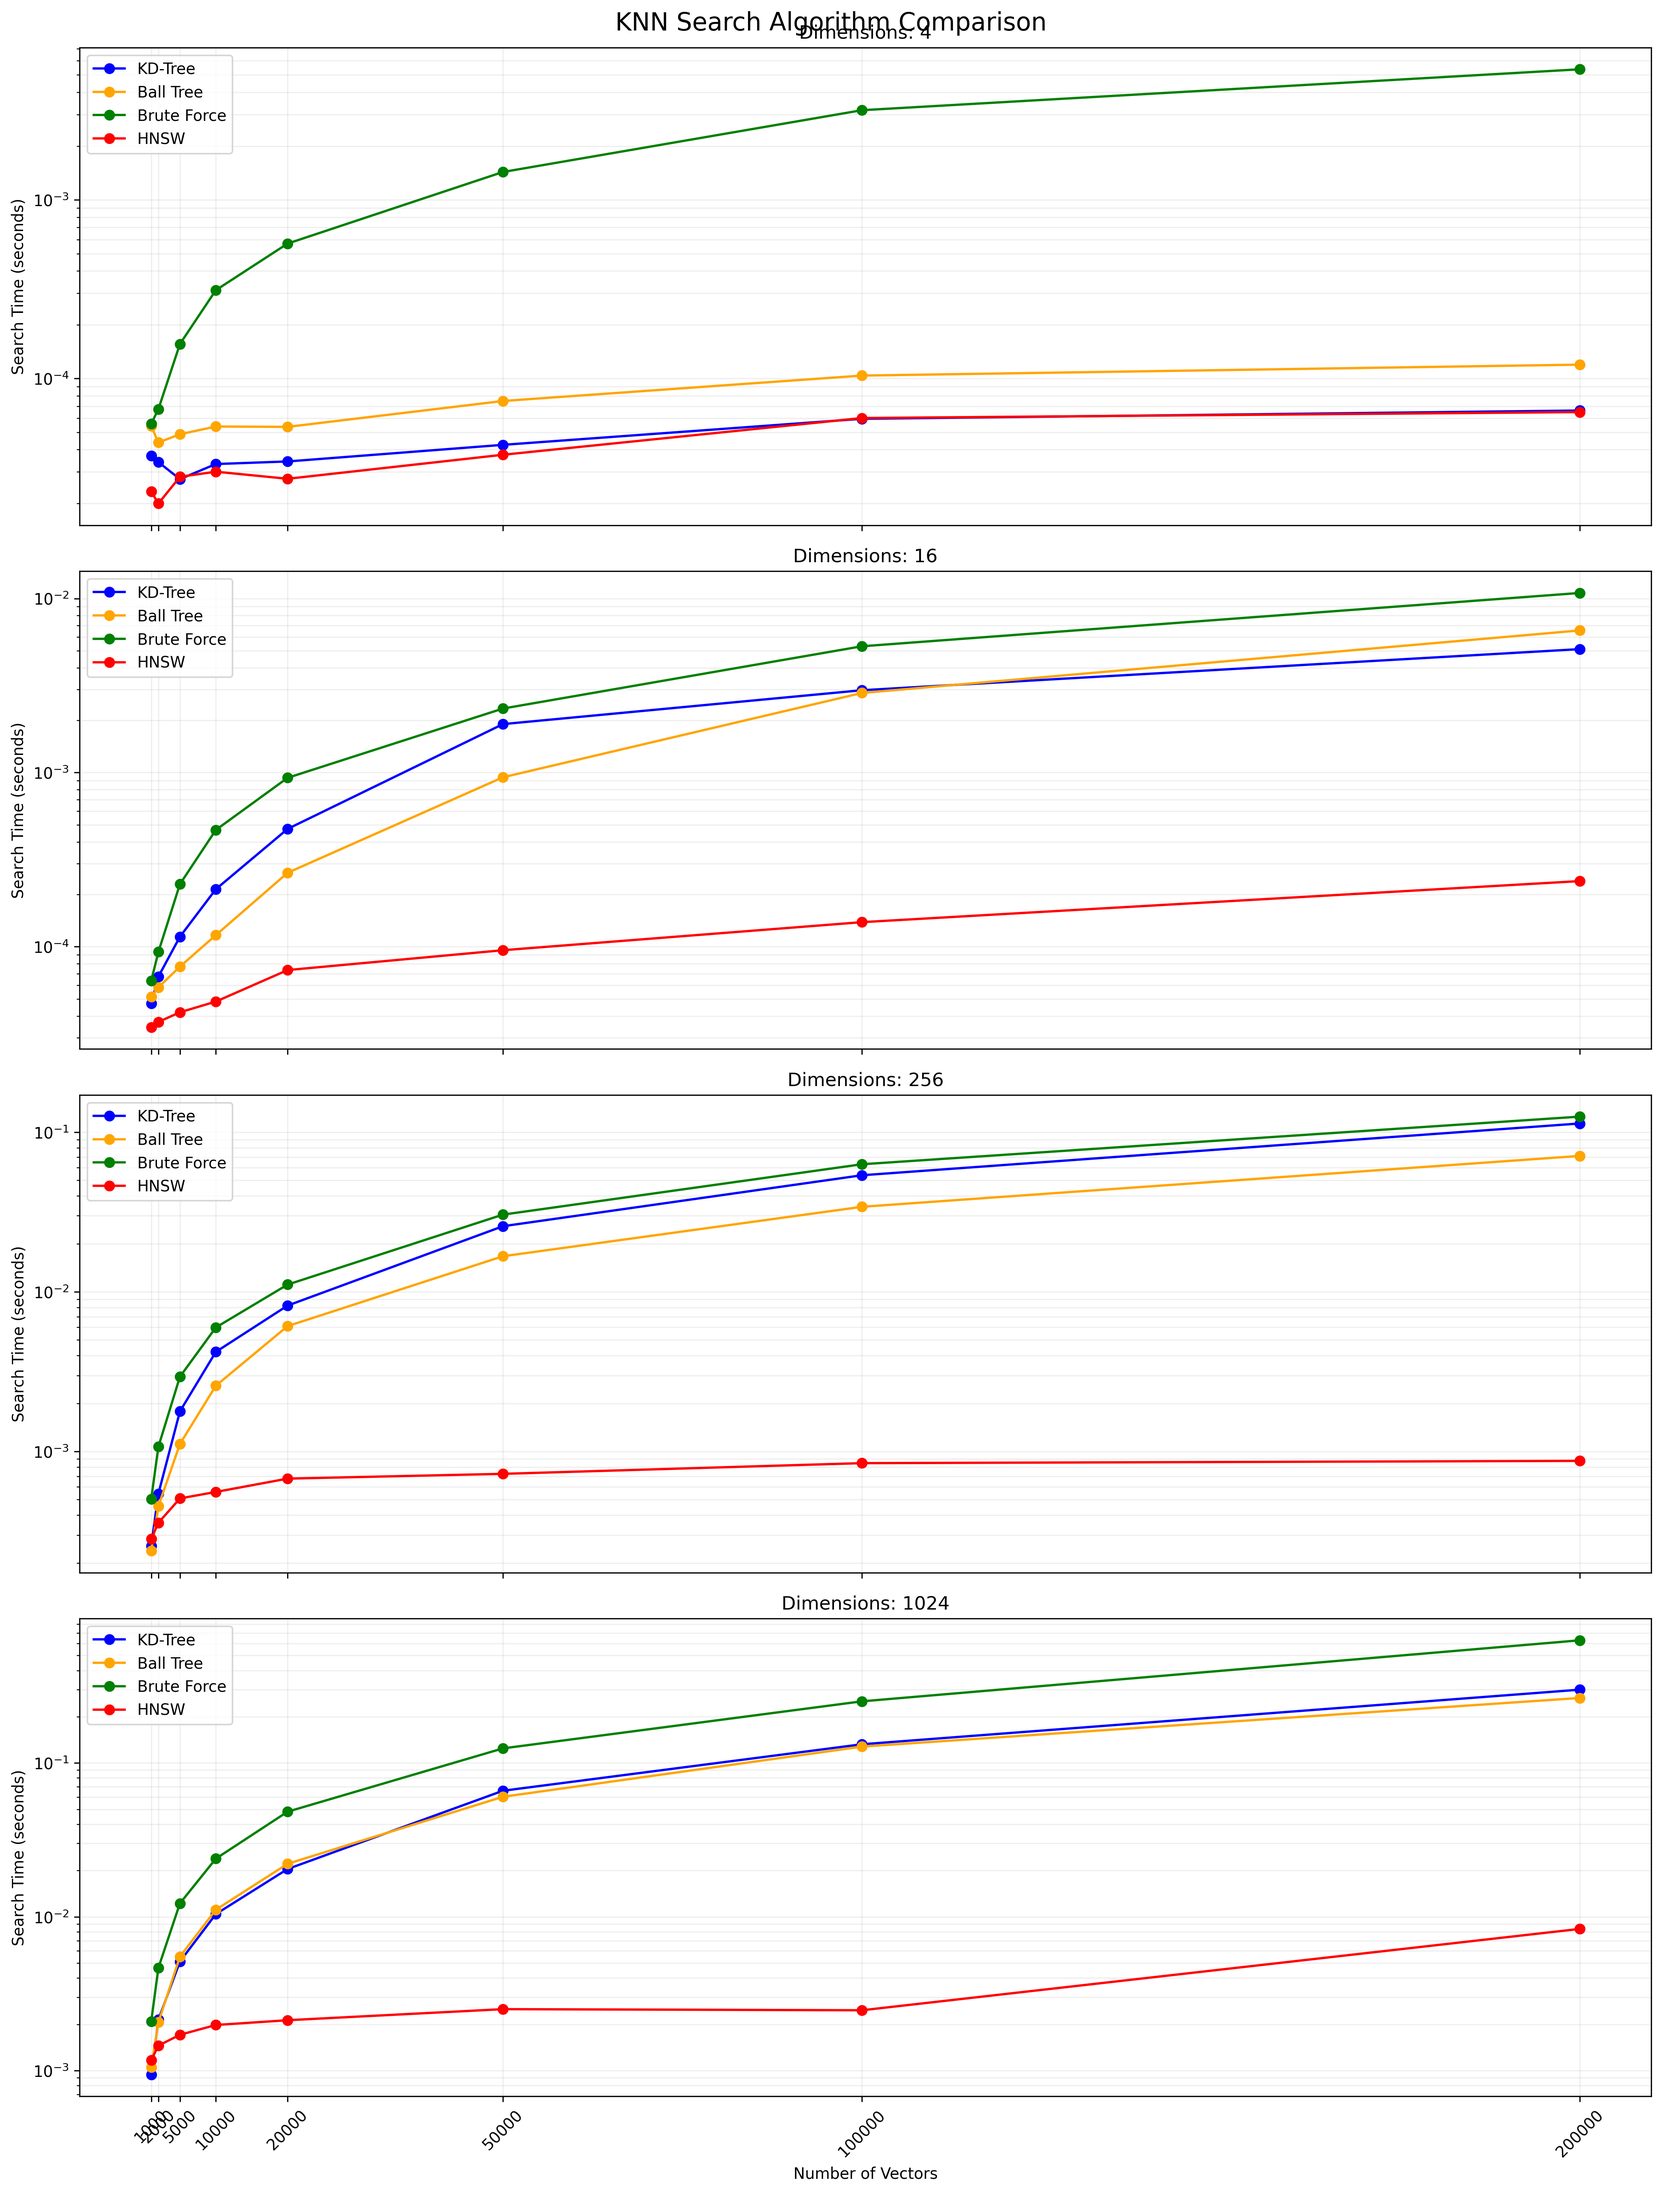
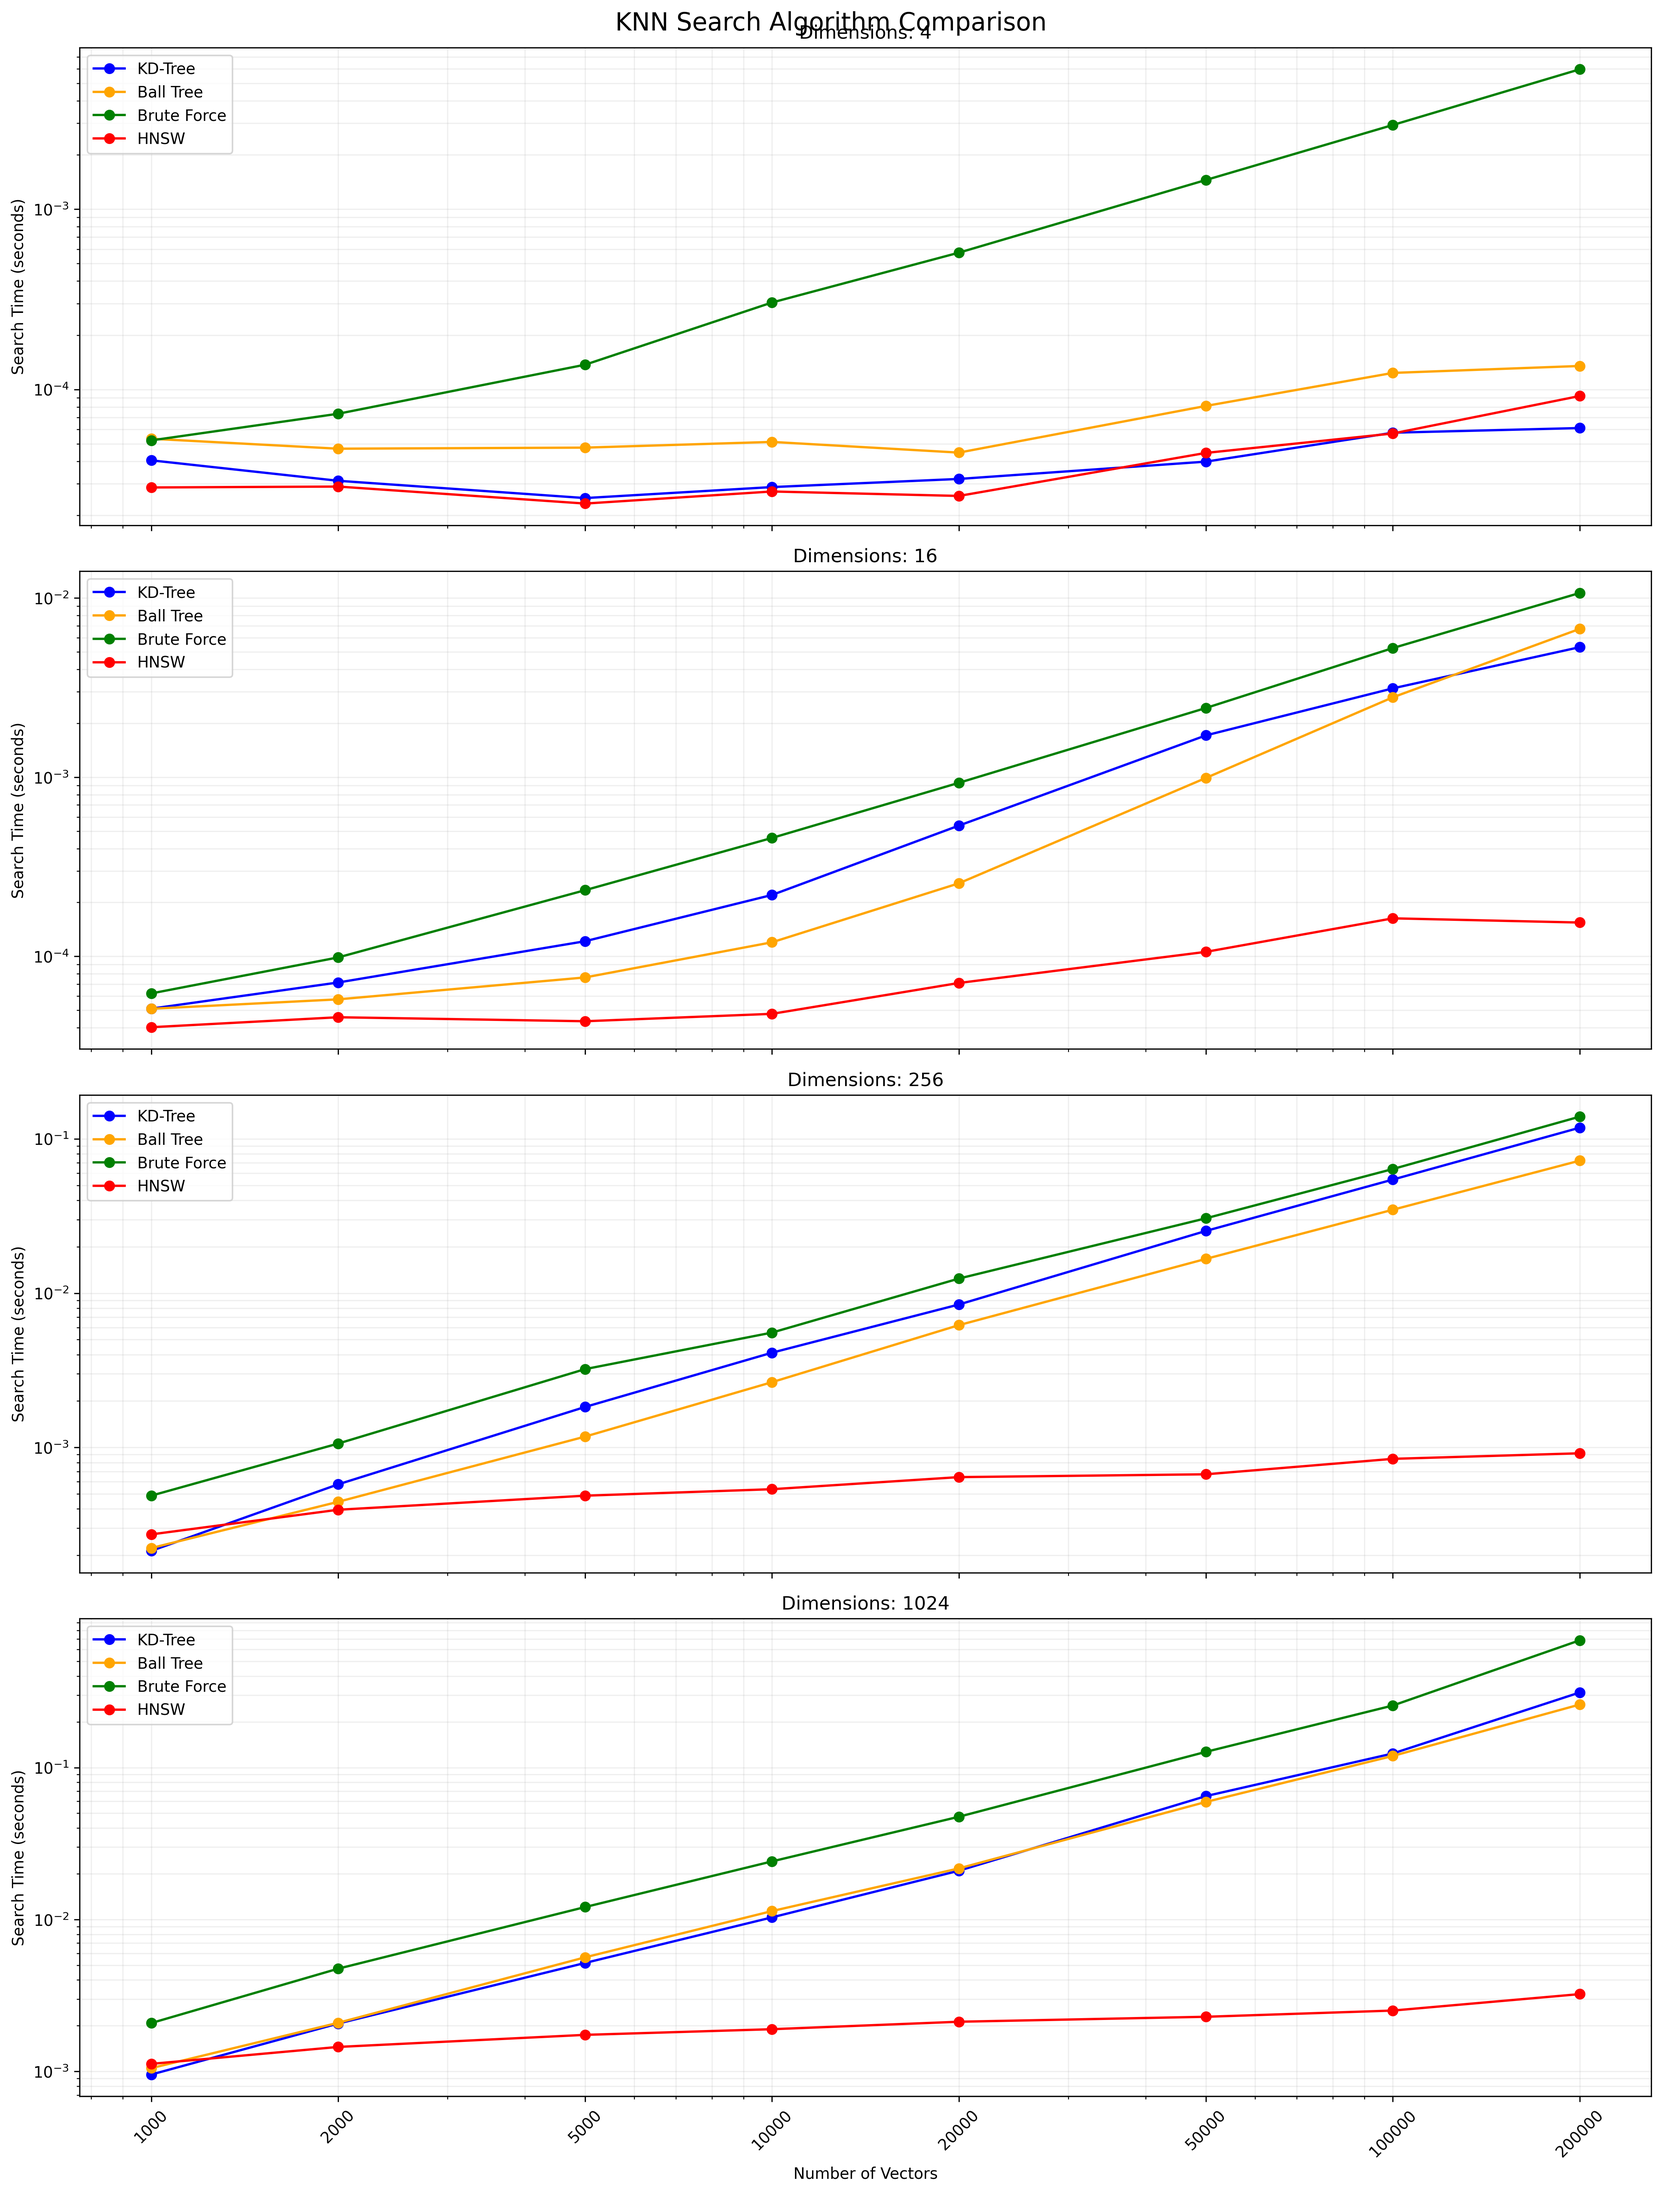
Chart now uses a log scale for both X and Y axes.

diff --git a/app.py b/app.py
@@ -316,11 +316,10 @@ def create_results_chart(csv_filename):
         dim_data = df[df['Num Dimensions'] == dim]
         
         for algo in ['KD-Tree', 'Ball Tree', 'Brute Force', 'HNSW']:
-            axes[i].plot(dim_data['Num Vectors'], dim_data[f'{algo} Search Time'], 
-                         marker='o', label=algo, color=colors[algo])
+            axes[i].loglog(dim_data['Num Vectors'], dim_data[f'{algo} Search Time'], 
+                           marker='o', label=algo, color=colors[algo])
         
         axes[i].set_ylabel('Search Time (seconds)')
-        axes[i].set_yscale('log')
         axes[i].set_title(f'Dimensions: {dim}')
         axes[i].grid(True, which="both", ls="-", alpha=0.2)
         axes[i].legend()
